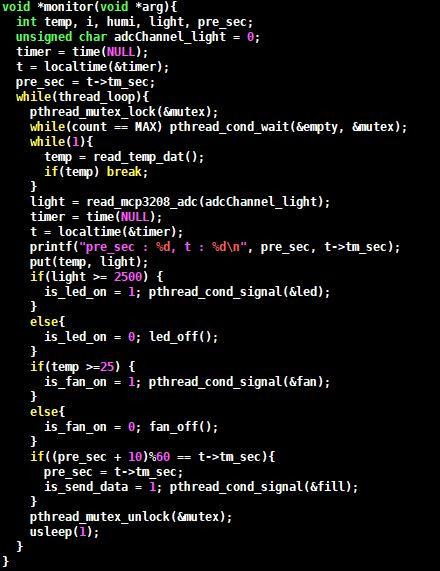
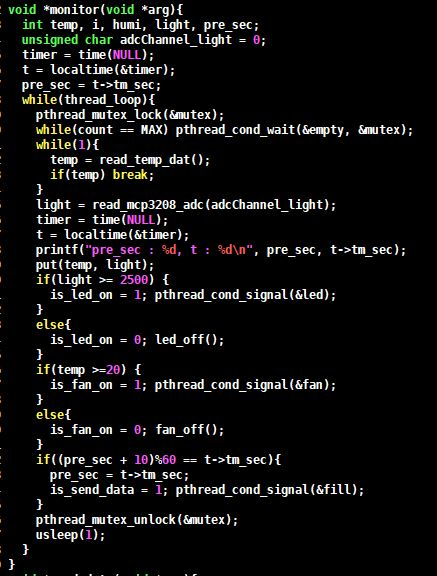
no message

Changed region(s): [[0.0, 0.0, 0.9519, 1.0]]

diff --git a/smartfarm/rpi src/main.cpp b/smartfarm/rpi src/main.cpp
@@ -113,7 +113,7 @@ void *monitor(void *arg){
 		else{
 			is_led_on = 0; led_off();
 		}
-		if(temp >=25) {
+		if(temp >=20) {
 			is_fan_on = 1; pthread_cond_signal(&fan);
 		}
 		else{

diff --git a/smartfarm/README.md b/smartfarm/README.md
@@ -13,17 +13,35 @@ The project name is Smart farm. it uses a particular module to measure temperatu
  - Each functionality should be performed by an independant thread
  - Use a signal mechanism when threads need to communicate each other. 
 
-## 2. Implementation
+## 3. Implementation
 * ## monitoring thread  
-    ![moni](./img/moni.jpg)  
+    ![moni](./img/moni.JPG)  
     this thread is monitoring of sensor data. it monitor temperature and brightness on every 1ms. but It works differently in practice. because gettng the temperature data takes a long time.  
-    So, if the temperature data that is monitered is greater than 25 degrees, send a signal to the fan thread that is asleep.
+    So, if the temperature data that is monitered is greater than 20 degrees, send a signal to the fan thread that is asleep.
     Likewise, if the brightness data that is monitered is greater than 2500 degrees, send a signal to the led thread that is asleep.
-    lastly 
-* ## Detect temperature  
-    This project uses DHT22 Module, Water pump Module 
-    When temperature that is measured by DHT22 Module is over 22℃, water pump is operated 1 second. and then they are turned off.
-    this process is repeated endlessly.
+    lastly, After 10 seconds, send ad signal to the send data thread.
+* ## led thread
+    ![led](./img/led.JPG)  
+    this thread is turning on red led.  
+    if it doesn't receive a signal, the condition of this changes to wait. and then when it receive the siganl, turn on the red led.
+* ## fan thread
+    ![fan](./img/fan.JPG)  
+    this thread is turning on fan.  
+    if it doesn't receive a signal, the condition of this changes to wait. and then when it receive the siganl, turn on the fan for 5 seconds.
+* ## send data thread
+    ![se](./img/se.JPG)  
+    this thread is sending monitored data from raspberry to the cloude server.  
+    if it doesn't receive a signal, the condition of this changes to wait. and then when it receive the siganl, send all data to cloud server.
+* ## main
+    ![se](./img/main.JPG)  
+    when the program starts, register the signaling and make a connection withe the database. and then create the above four threads after initialization for each function. lastly wait for all thread to finish.
 
-## 3. Demo Video
-* ### https://youtu.be/ed1Af4_tw14
+## 4. Capture the data on the web server
+* ## database that is shown by phpmyadmin
+    ![2](./img/2.JPG)
+
+* ## graph of average data in 10 seconds
+    ![1](./img/1.JPG)
+
+## 5. Demo Video
+    https://youtu.be/ioDJsIqziq4
